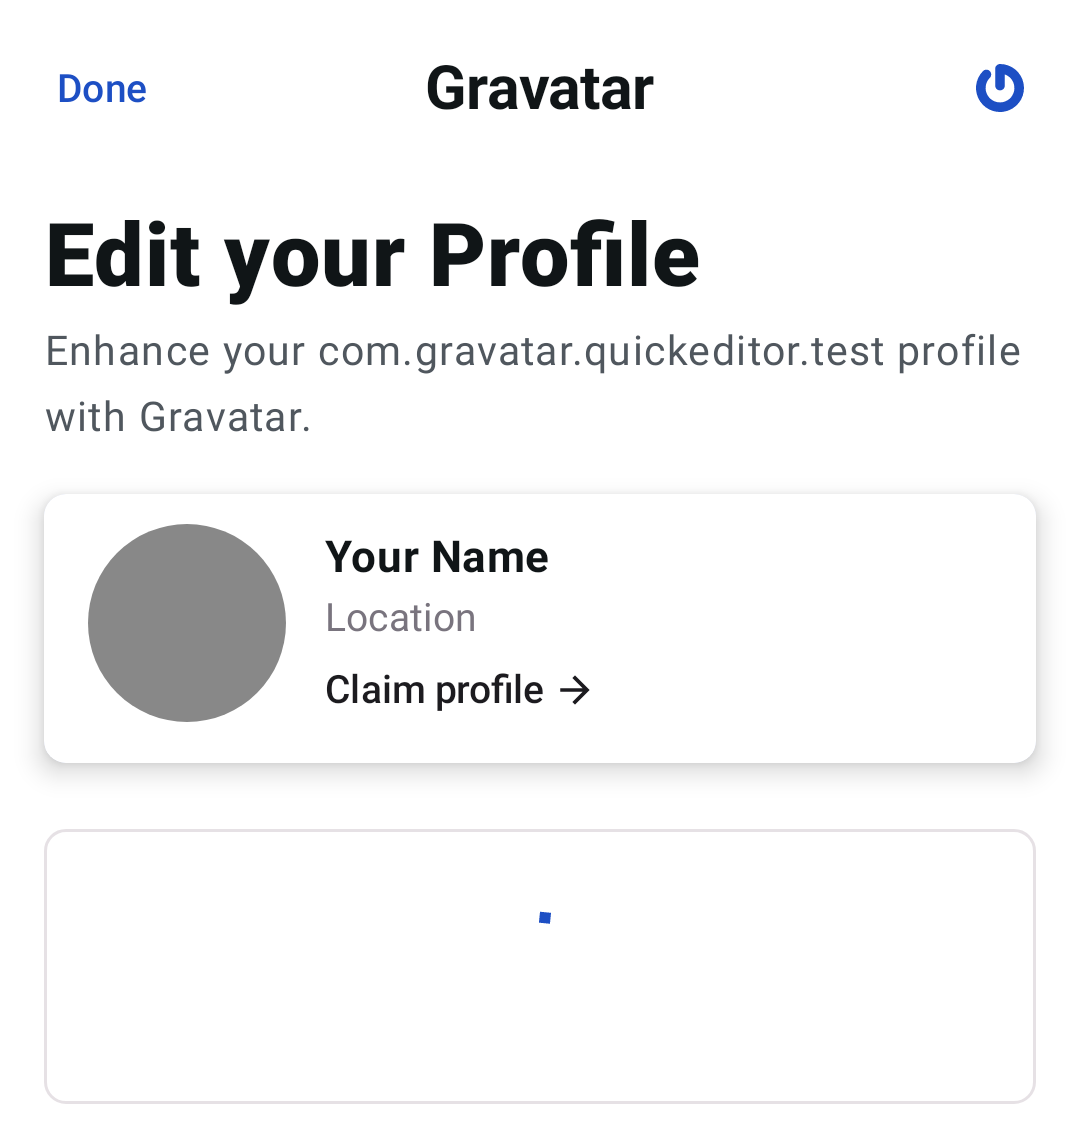
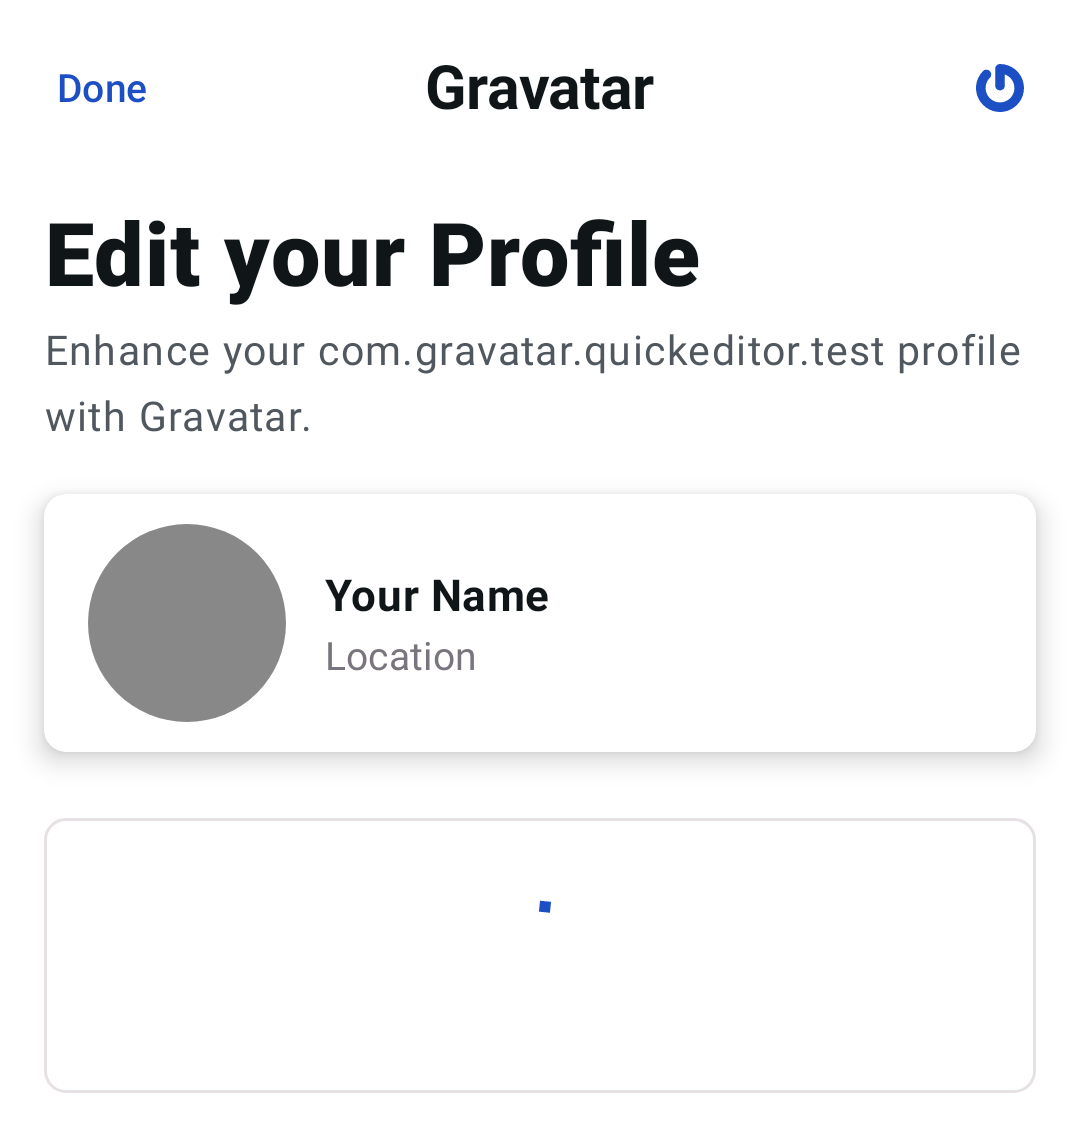
Remove the Claim profile button when Empty state in the profile card (#563)
* Remove the Claim profile button when Empty state in the profile card

* Generate quickeditor.api file

Pull request: Remove the Claim profile button when Empty state in the profile card
Closes #553

### Description

This PR removes the `Claim profile` button from the profile card when the state is Empty - meaning when the GA doesn't exist. 

<img width="547" alt="Screenshot 2025-01-27 at 14 52 52" src="https://github.com/user-attachments/assets/07d4120c-1a4a-4ab8-aa7b-78ca039e9399" />


### Testing Steps

1. Launch the Demo app
2. Type in a random email that's not registered on Gravatar
3. Launch the QE
4. Confirm the "Claim profile" button is gone

diff --git a/gravatar-quickeditor/src/main/java/com/gravatar/quickeditor/ui/components/ProfileCard.kt b/gravatar-quickeditor/src/main/java/com/gravatar/quickeditor/ui/components/ProfileCard.kt
@@ -4,6 +4,7 @@ import android.content.res.Configuration
 import androidx.compose.foundation.background
 import androidx.compose.foundation.isSystemInDarkTheme
 import androidx.compose.foundation.layout.fillMaxWidth
+import androidx.compose.foundation.layout.height
 import androidx.compose.foundation.layout.padding
 import androidx.compose.foundation.layout.wrapContentHeight
 import androidx.compose.foundation.shape.CircleShape
@@ -28,6 +29,7 @@ import com.gravatar.ui.GravatarTheme
 import com.gravatar.ui.components.ComponentState
 import com.gravatar.ui.components.ProfileSummary
 import com.gravatar.ui.components.atomic.Avatar
+import com.gravatar.ui.components.atomic.ViewProfileButton
 import com.gravatar.ui.components.transform
 
 @Composable
@@ -58,6 +60,14 @@ internal fun ProfileCard(
                         size = 72.dp,
                         modifier = Modifier.clip(CircleShape),
                     )
+                },
+                viewProfile = { state ->
+                    if (state !is ComponentState.Empty) {
+                        ViewProfileButton(
+                            state = state,
+                            modifier = Modifier.height(32.dp),
+                        )
+                    }
                 },
             )
         }